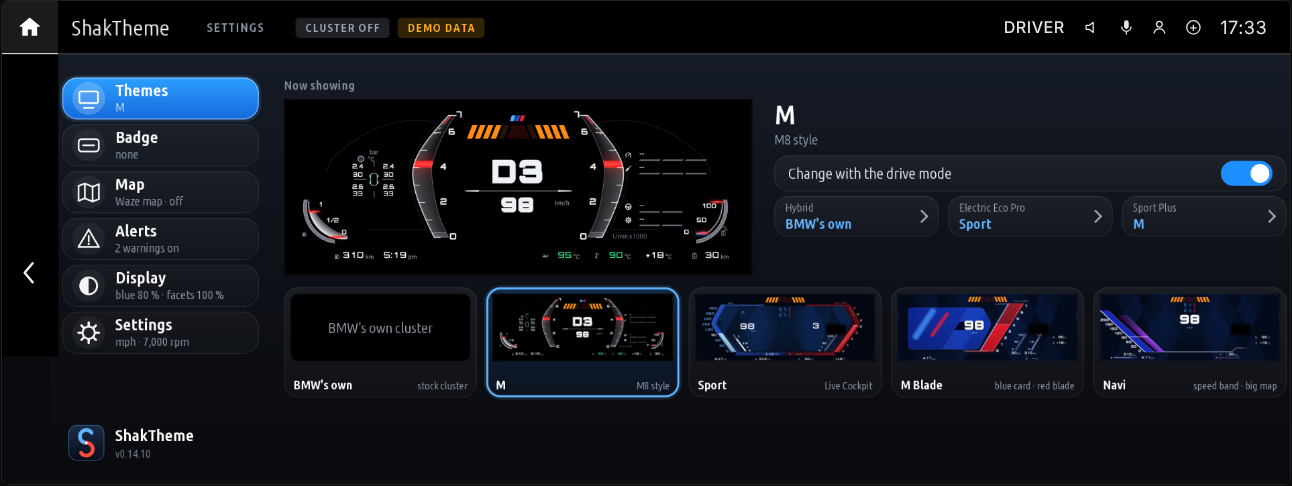
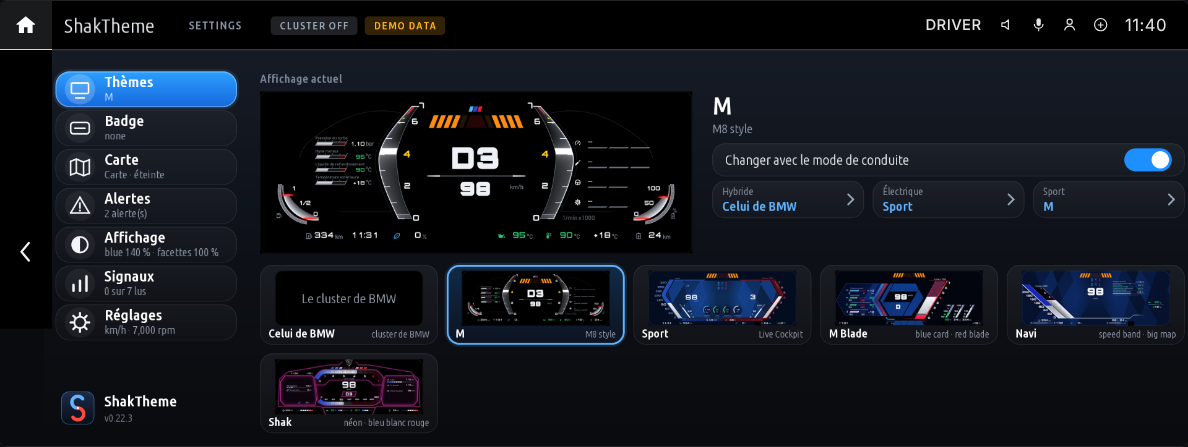
ShakTheme 0.22.4 : images de tous les thèmes refaites, Shak dans les README
- Images du dépôt refaites au banc : Sport, M, M Blade (avec et sans carte), Navi,
  Shak (avec et sans carte), et la capture du menu des thèmes.
- Étiquette de Shak dans le menu : « néon · bleu blanc rouge ».

Claude-Session: https://claude.ai/code/session_01DiNaTkvfZiEqj4ohk1WdHN

diff --git a/bimmer/apps/shaktheme/main.js b/bimmer/apps/shaktheme/main.js
@@ -53,7 +53,7 @@ mgu.run({
         } catch (e) { ctx.log.warn('touche BC : pas démarrée (' + (e && e.message || e) + ')'); }
         new Page(ctx, hud, {
             title: ctx.spec.title, what: 'cluster',
-            look: { name: 'Themes', style: 'hero', tags: { m: 'M8 style', sport: 'Live Cockpit', mblade: 'blue card · red blade', navi: 'speed band · big map', evo: 'néon · arcs · logo SHAK' } },
+            look: { name: 'Themes', style: 'hero', tags: { m: 'M8 style', sport: 'Live Cockpit', mblade: 'blue card · red blade', navi: 'speed band · big map', evo: 'néon · bleu blanc rouge' } },
             tabs: ['look', 'badge', 'map', 'alerts', 'display', 'signals', 'settings'],
             settings: ['units', 'clock', 'timeZone', 'tankLitres', 'evRangeFull', 'reserveKm', 'reservePct', 'tyreLow', 'speedZone', 'startupSweep', 'limitRing', 'launchTimer', 'launchReady', 'launchRpm', 'runArmRpm', 'accentByMode', 'iceBelow', 'evShare', 'redline', 'shiftBefore', 'coldGuard', 'showBoost', 'demo'],
             display: ['bcViews', 'viewSel', 'gFlipLat', 'gFlipLong', 'sportTint', 'sportFacets', 'sportPower', 'stockShiftLight', 'shiftLightRed', 'shiftLightFlash', 'nightDim', 'gearWindow', 'cameraNotch'],

diff --git a/CHANGELOG.md b/CHANGELOG.md
@@ -2,6 +2,10 @@
 
 ## 23 novembre 2026
 
+### ShakTheme 0.22.4 : images de tous les thèmes refaites
+- **Demande du propriétaire (11:38)** : « mets le thème en public et réactualise l'image de tous les thèmes ». Shak est proposé dans les réglages depuis 0.22.2 ; il a maintenant son image dans les README (`docs/images/cluster-shak.png`, avec la carte : `cluster-shak-waze.png`).
+- Images du dépôt refaites au banc pour Sport, M, M Blade (avec et sans carte) et Navi (panneau de limitation de 74 px, effet loupe, alerte radar), et la capture du menu des thèmes sur l'écran central (`page-cluster-themes.png`, prise avec l'émulateur du kit). L'étiquette de Shak dans le menu devient « néon · bleu blanc rouge ».
+
 ### ShakTheme 0.22.3 : le chrono 0-100 seulement après un départ arrêté
 - **Demande du propriétaire (23 nov., 11:36)** : « le chrono, il faut qu'il se déclenche seulement après un launch control : gros freinage et 1500 tr/min minimum à l'arrêt ».
 - Le chrono n'est armé que si la voiture est à l'arrêt **et** le moteur tenu à au moins 1500 tr/min (nouveau réglage « Chrono 0-100 seulement après un départ arrêté », 1500 par défaut, 0 = à chaque départ comme avant). La voiture ne donne pas à l'appli de signal de frein, mais en D elle ne peut rester à l'arrêt à ce régime que frein tenu. Si le régime retombe à l'arrêt (pied levé), il se désarme : un départ au feu rouge ne lance plus le chrono.

diff --git a/bimmer/apps/shaktheme/README.md b/bimmer/apps/shaktheme/README.md
@@ -58,6 +58,9 @@ A diagonal speed band on the left, a big rounded window in the middle for the ma
 
 ### Shak (nouveau, 23 nov. 2026)
 
+<p align="center"><img src="../../docs/images/cluster-shak.png" width="900" alt="Thème Shak"></p>
+<p align="center"><img src="../../docs/images/cluster-shak-waze.png" width="900" alt="Thème Shak avec la fenêtre de la carte (carte de démonstration noire)"></p>
+
 Le thème du propriétaire, d'après sa photo d'un cluster de course, sans ses badges : fond noir, lignes néon magenta, chiffres en italique gras.
 
 - **En haut :** le logo **SHAK** au milieu (toujours affiché, carte ou pas), et dessous le shiftlight redessiné en **pastilles** (bleu à gauche, blanc, rose à droite ; tout rouge quand il clignote). Il garde les réglages du shiftlight d'origine (début, rouge, clignotement).

diff --git a/README.md b/README.md
@@ -7,6 +7,7 @@
 Le dépôt contient aussi **ShakHUD** (l'affichage tête haute), **ShakLimites** (la limitation d'après la carte), **RideTube** et deux applis d'essai (ShakConso, ShakMusique). Rien ici n'est officiel BMW.
 
 <p align="center"><img src="bimmer/docs/images/page-cluster-themes.png" width="900" alt="Le menu de ShakTheme sur l'écran central"></p>
+<p align="center"><img src="bimmer/docs/images/cluster-shak.png" width="900" alt="Le thème Shak"></p>
 
 > **Important : rien n'a encore été essayé dans une vraie X3 30e.** Tout a été vérifié sur un banc d'essai (rendu image par image des thèmes) et par des tests automatiques. Les points non vérifiés sont listés plus bas, honnêtement.
 

diff --git a/bimmer/README.md b/bimmer/README.md
@@ -15,6 +15,7 @@ Redraws the whole instrument cluster in one of five themes: **Sport**, **M**, **
 <p align="center"><img src="docs/images/cluster-m.png" width="900" alt="M theme"></p>
 <p align="center"><img src="docs/images/cluster-mblade.png" width="900" alt="M Blade theme"></p>
 <p align="center"><img src="docs/images/cluster-navi.png" width="900" alt="Navi theme"></p>
+<p align="center"><img src="docs/images/cluster-shak.png" width="900" alt="Shak theme"></p>
 
 ## Setting up
 
